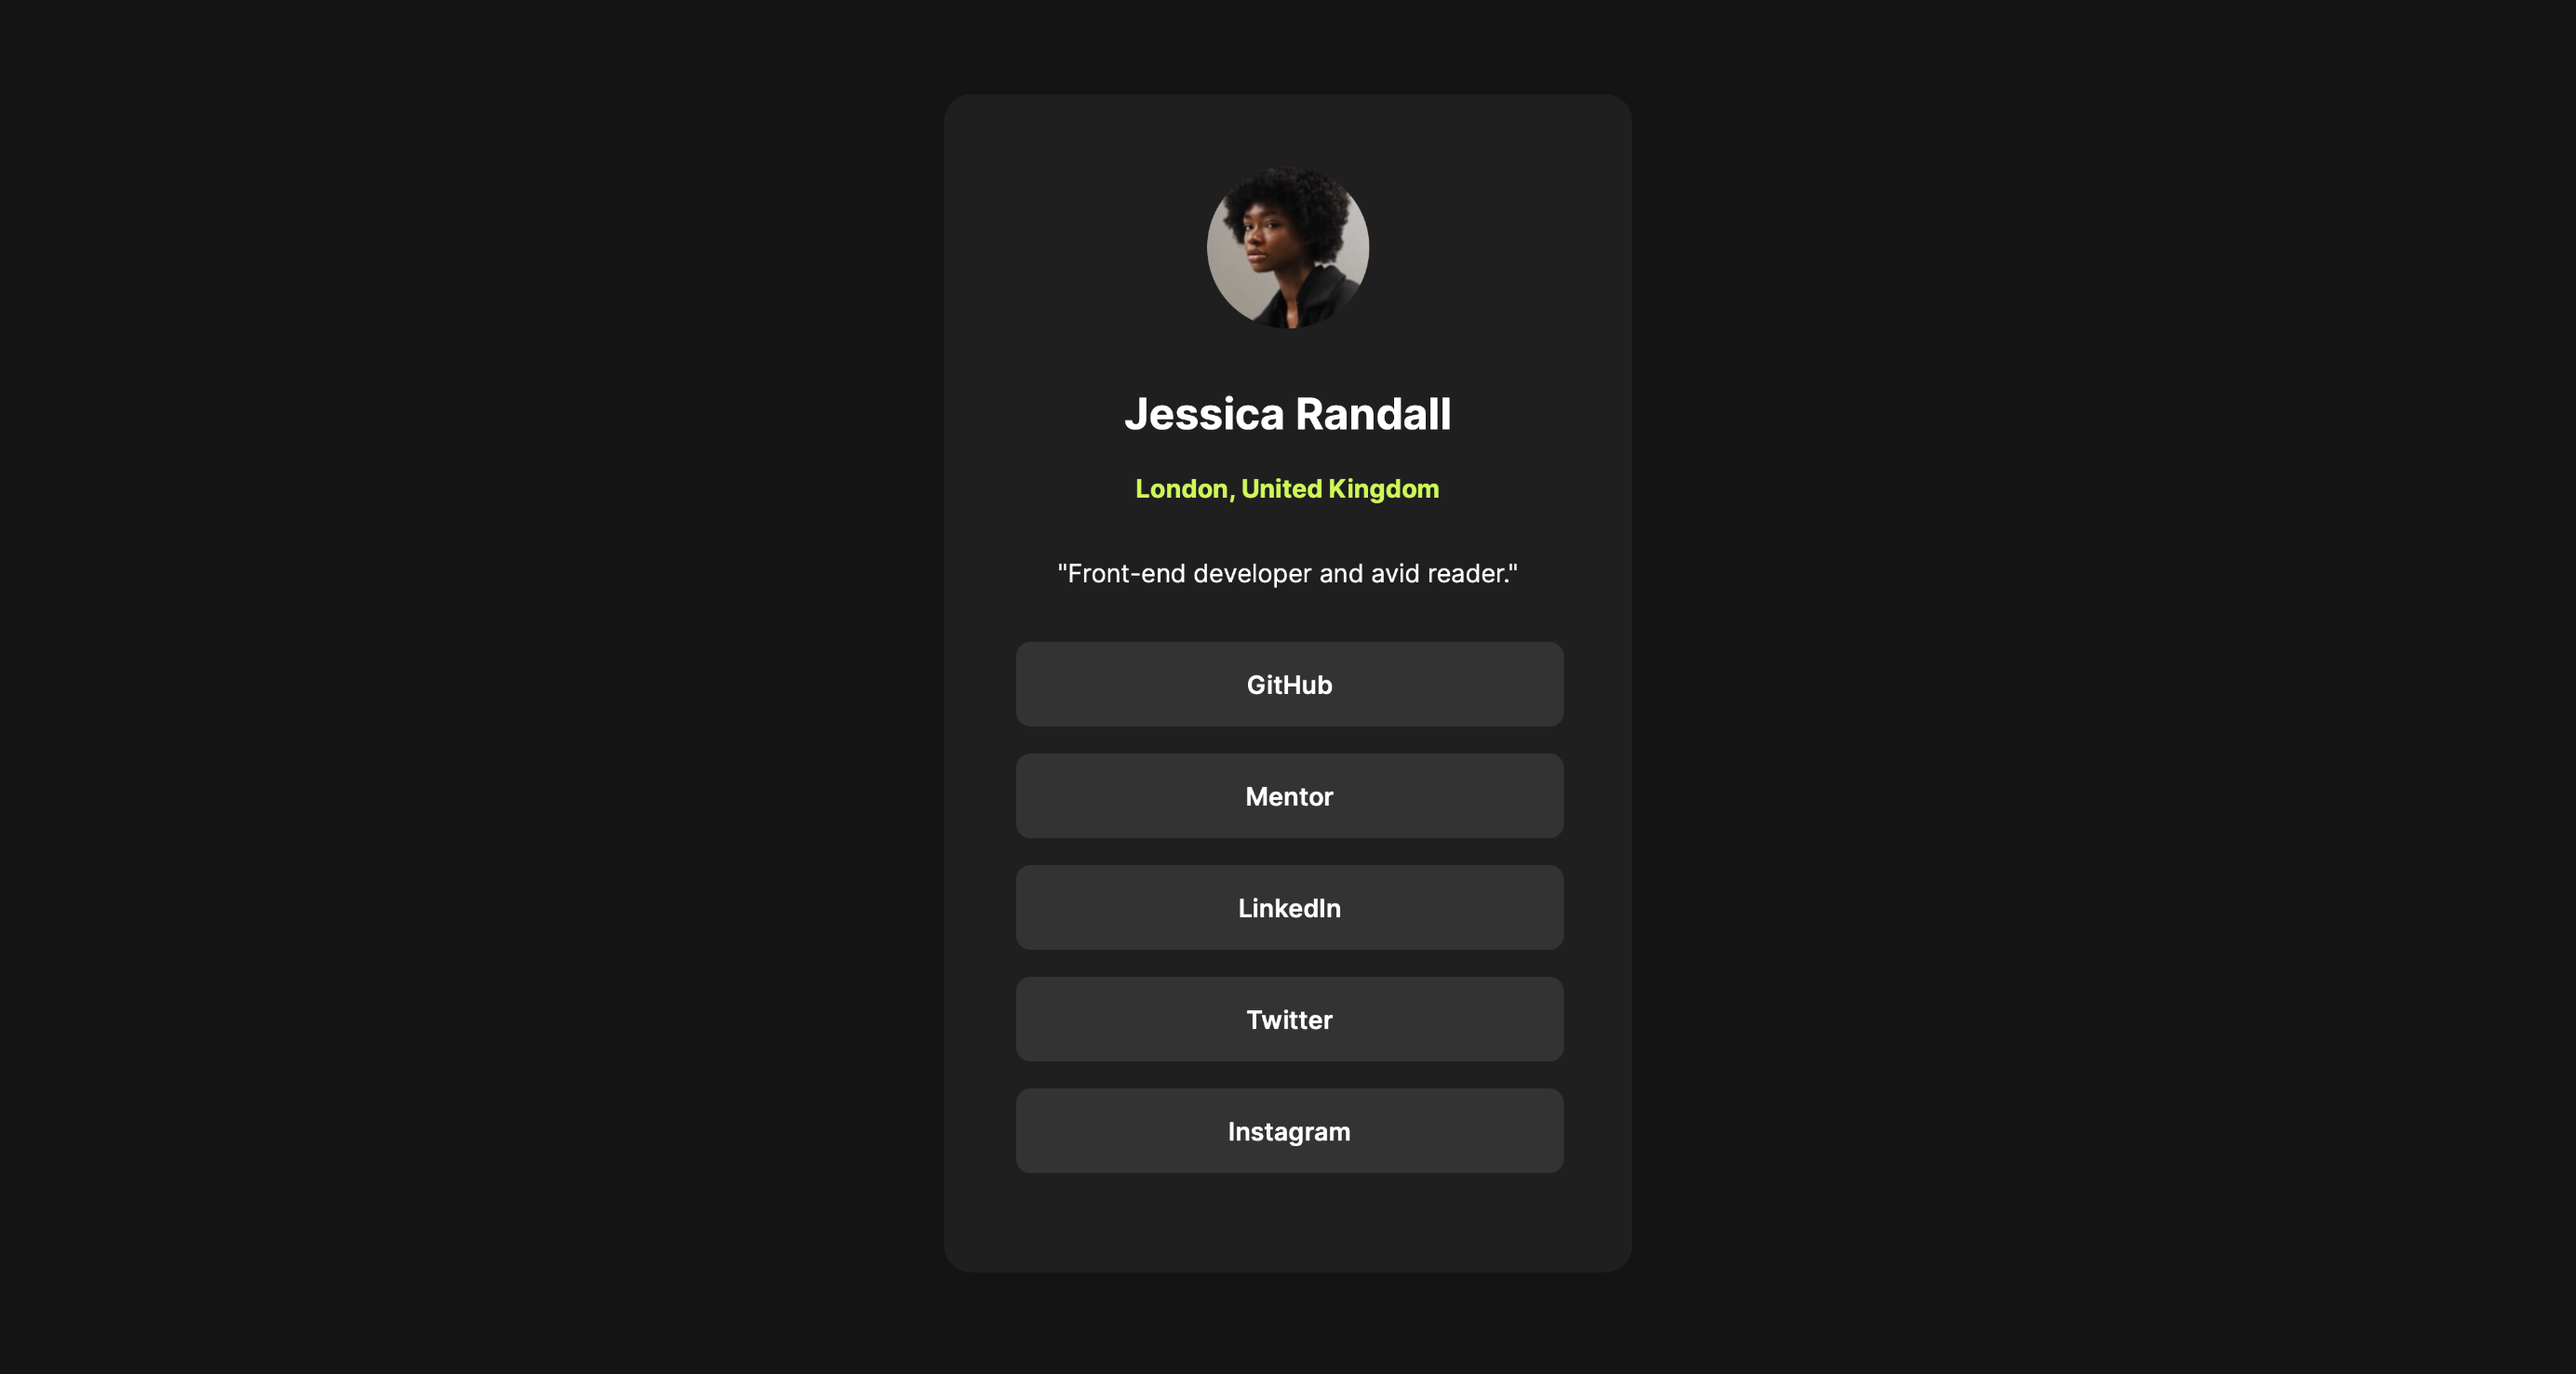
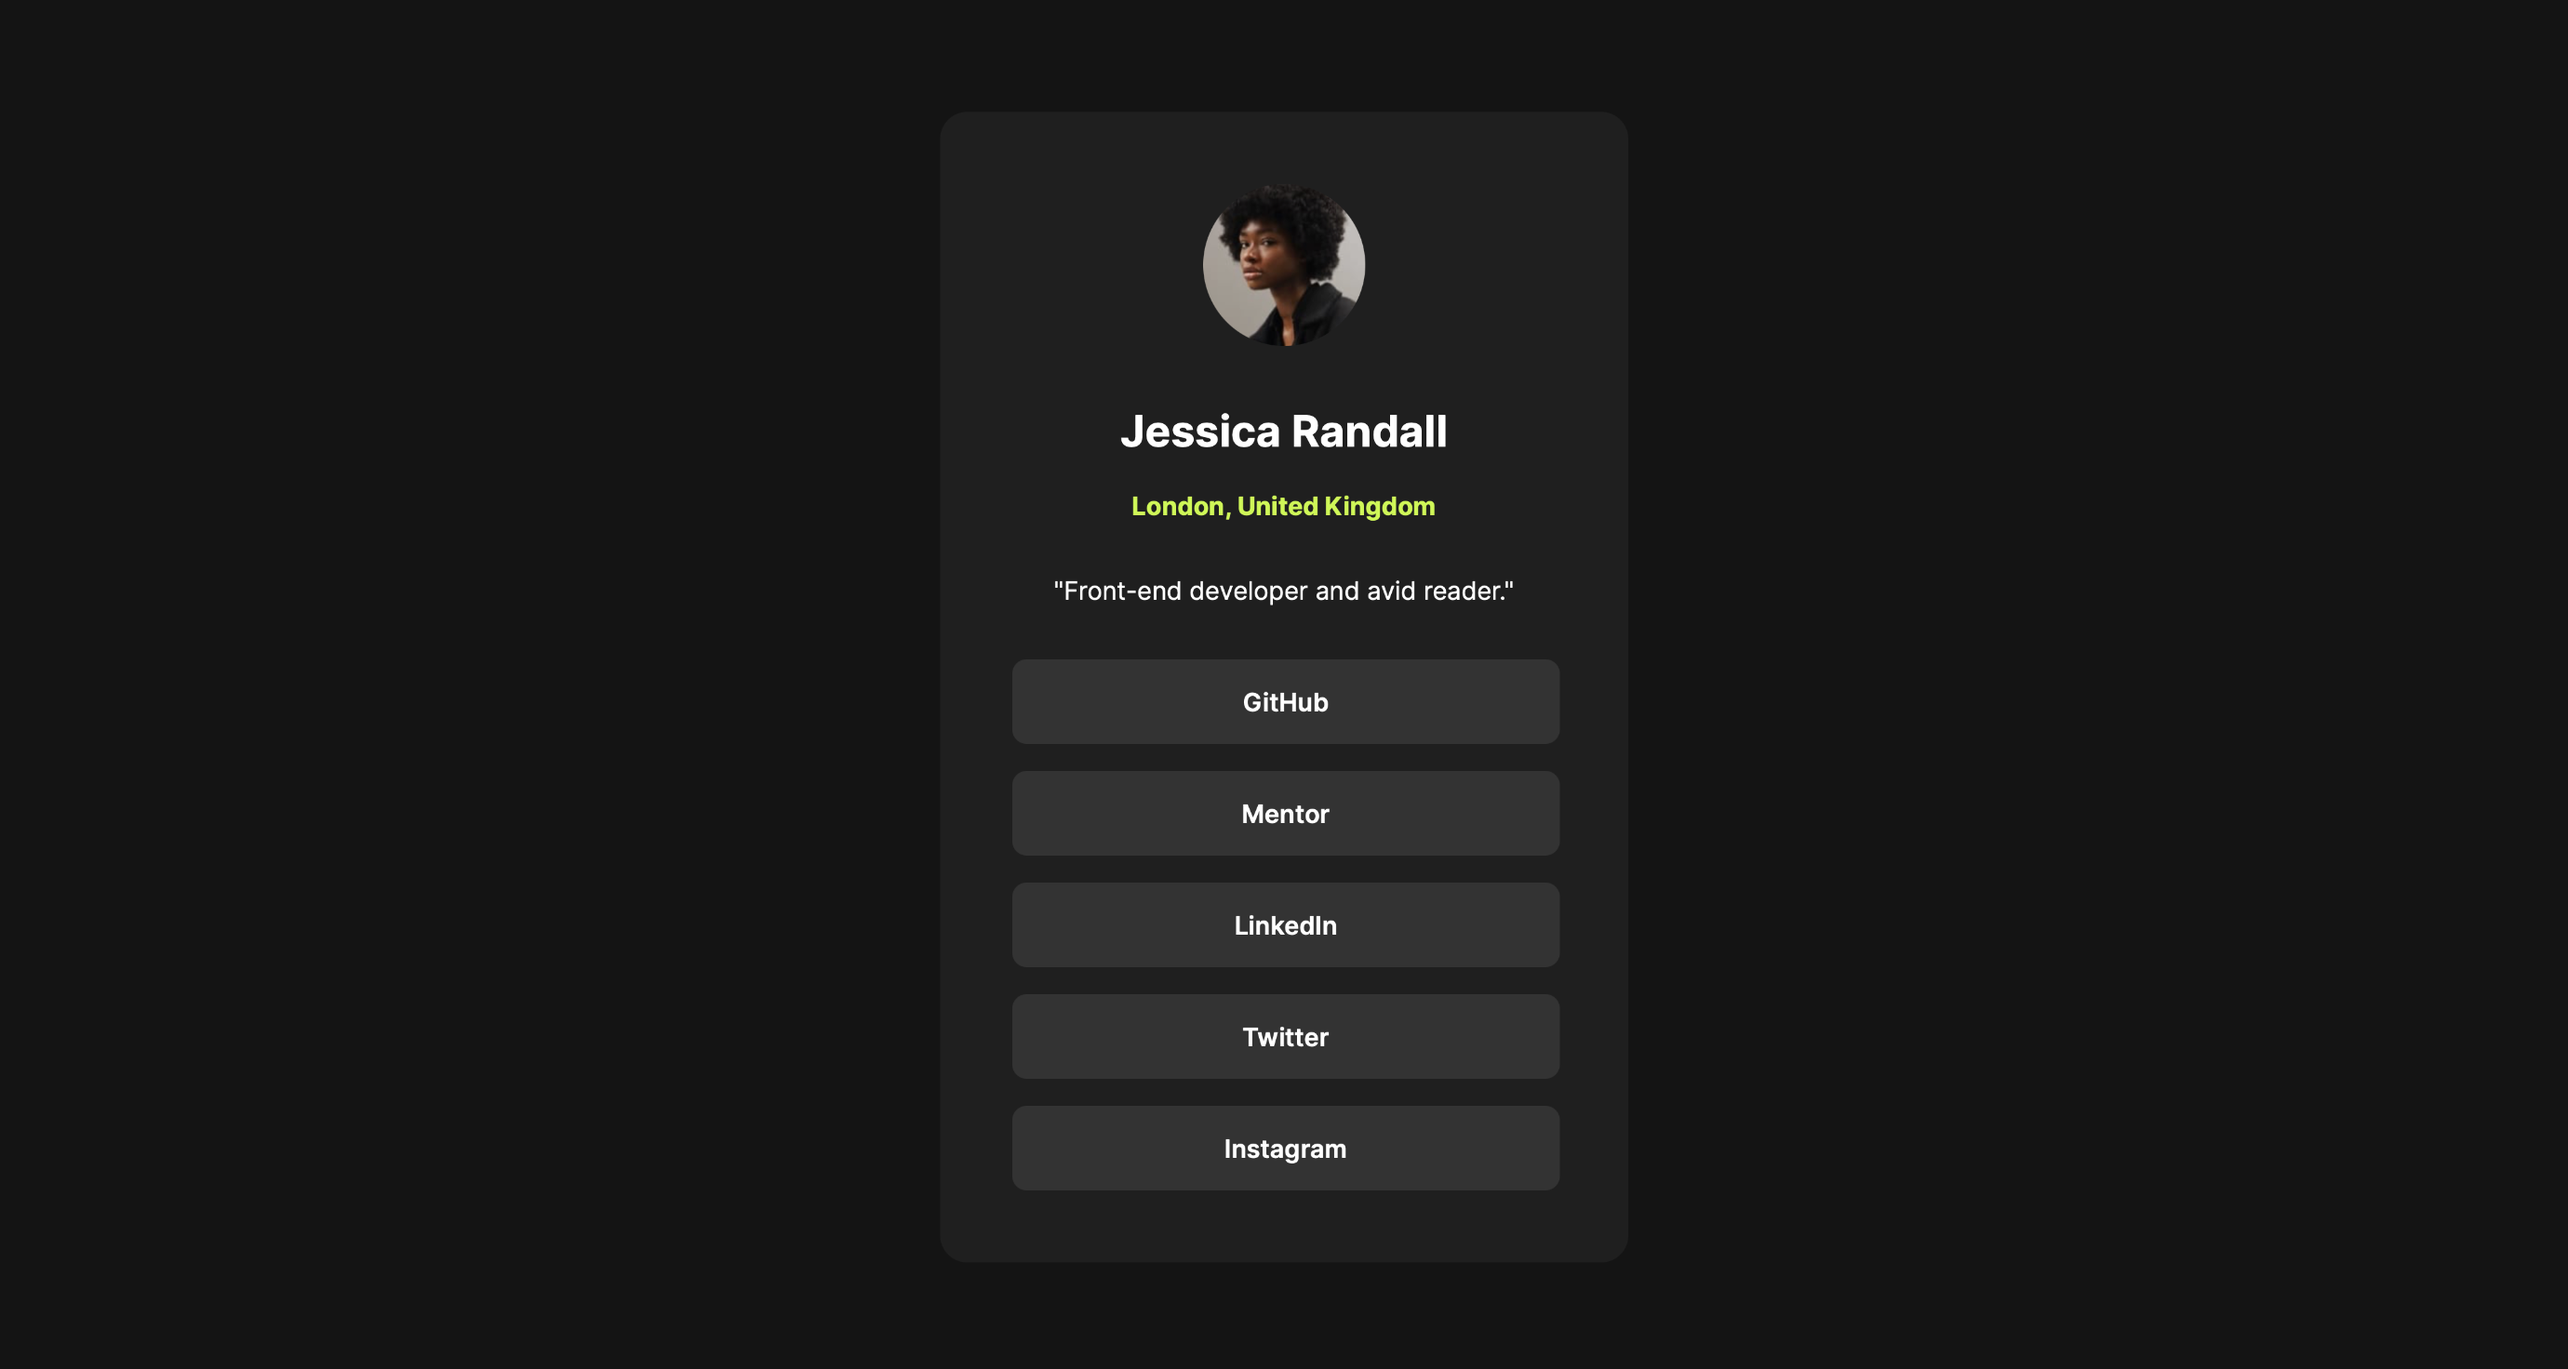
screens

diff --git a/README.md b/README.md
@@ -17,7 +17,7 @@ This is a solution to the [Social links profile challenge on Frontend Mentor](ht
 ### Screenshot
 
 ![](./images/1440-screen.png)
-![](./images/375-screen-Social-links-profile.png)
+![](./images/395-screen.png)
 
 ### Links
 
